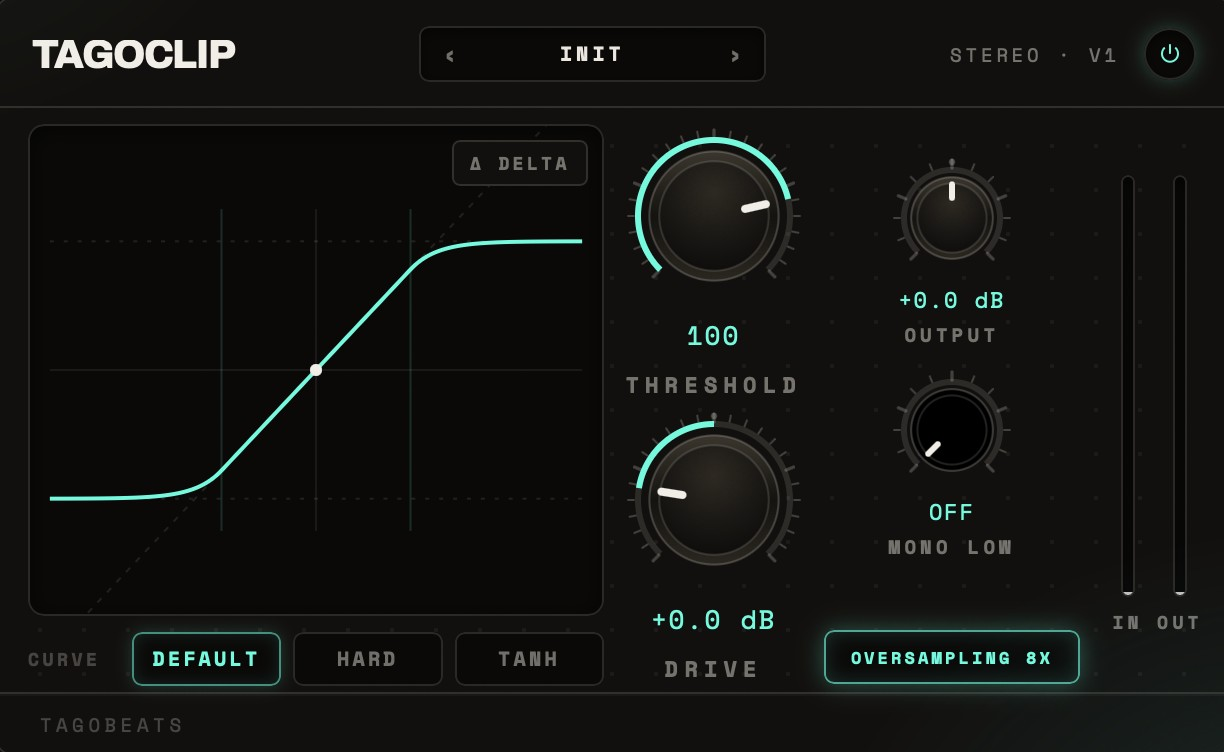
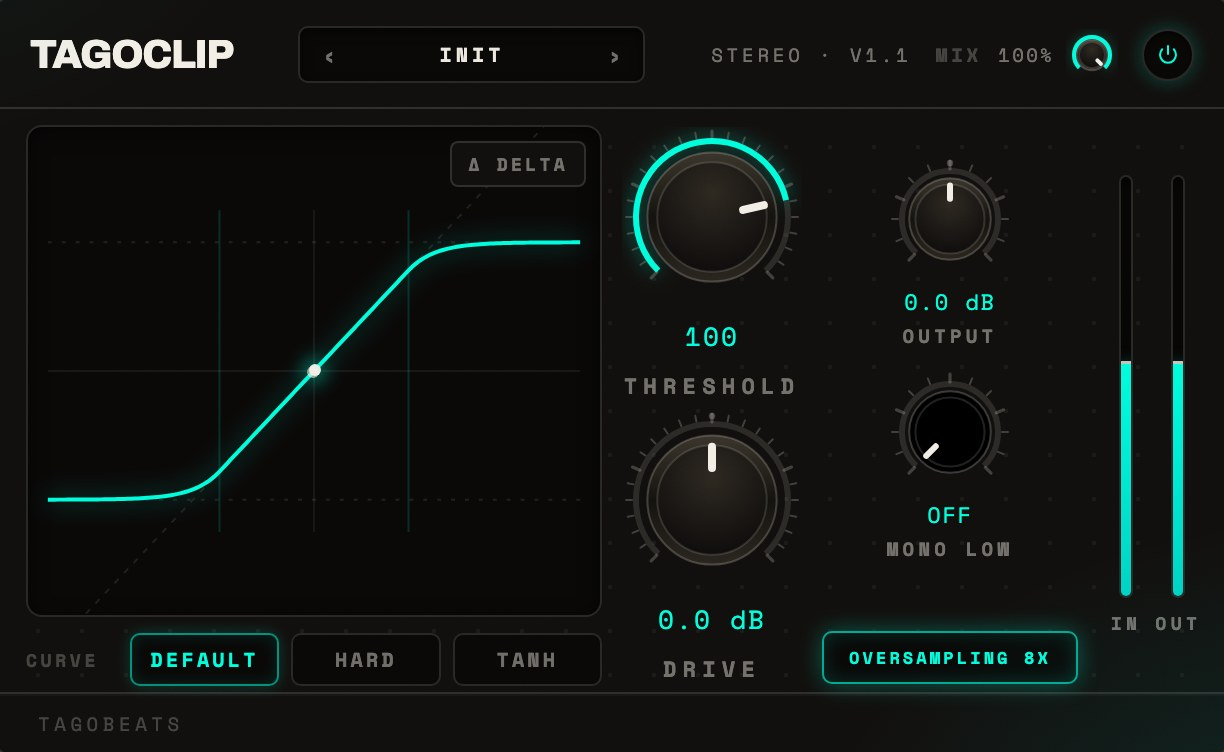
Point TagoClip at v1.1.0
Version strings, download links and the JSON-LD softwareVersion move to
1.1.0, the product card gets a fresh screenshot with a cache bust. The
demo page is the display-only twin of the plugin mockup and follows the
same v1.1 UI: mix knob in the header, gain reduction readout in the
scope, unity at 12 o'clock on the drive knob.

TagoPitch is untouched and stays on 1.0.0.

Not for deploy yet: the download links point at release assets that do
not exist until the v1.1.0 release is published, which happens together
with the first list mail.

diff --git a/demos/tagoclip.html b/demos/tagoclip.html
@@ -133,6 +133,30 @@
     color: var(--dim);
     white-space: nowrap;
   }
+  /* Mix lives in the header, between the meta line and the bypass button, and
+     carries its value inline because the header has no room for a stacked label. */
+  .header-mix .knob-unit {
+    flex-direction: row-reverse;
+    align-items: center;
+    gap: 6px;
+  }
+  .header-mix .knob-label {
+    font-size: 9.5px; letter-spacing: 0.2em;
+    color: var(--faint);
+    margin-top: 0;
+  }
+  .header-mix .knob-value {
+    font-size: 9.5px; letter-spacing: 0.12em;
+    /* fixed width so 8 % and 100 % do not shift the bypass button */
+    min-width: 30px; text-align: right;
+    min-height: 0;
+    color: var(--dim);
+  }
+  .header-mix .knob-unit:hover .knob-value { color: var(--accent); }
+  .header-mix .track, .header-mix .fill { stroke-width: 2; }
+  .header-mix .fill { filter: drop-shadow(0 0 3px rgba(0, 253, 220, 0.35)); }
+  .header-mix .pointer { stroke-width: 2; }
+
   #power {
     width: 26px; height: 26px; border-radius: 50%;
     border: 1px solid var(--hairline);
@@ -178,6 +202,22 @@
     overflow: hidden;
   }
   #scope { display: block; width: 100%; height: 100%; }
+  /* Gain reduction, deliberately a side feature: no badge, no glow, invisible
+     until the clipper actually takes something away (Robin, 17.09.2026). */
+  #gr-readout {
+    position: absolute; left: 11px; top: 11px;
+    display: flex; align-items: baseline; gap: 4px;
+    font: 700 8.5px "Space Mono", monospace;
+    letter-spacing: 0.16em;
+    color: var(--dim);
+    opacity: 0;
+    transition: opacity 0.25s;
+    pointer-events: none;
+    z-index: 1;
+  }
+  #gr-readout .gr-value { min-width: 24px; text-align: right; }
+  #gr-readout.on { opacity: 1; }
+
   #delta-btn {
     position: absolute; top: 7px; right: 7px;
     font: 700 9px "Space Mono", monospace;
@@ -358,7 +398,8 @@
       <button id="next" title="Next preset">›</button>
     </div>
     <div class="header-right">
-      <span class="header-meta">Stereo&nbsp;·&nbsp;V1</span>
+      <span class="header-meta">Stereo&nbsp;·&nbsp;V1.1</span>
+      <div class="header-mix"><div class="knob-unit" id="mix"></div></div>
       <button id="power" title="Bypass">
         <svg viewBox="0 0 24 24"><path d="M12 3v8"/><path d="M6.2 6.2a8 8 0 1 0 11.6 0"/></svg>
       </button>
@@ -368,7 +409,10 @@
   <main>
     <div class="scope-unit">
       <div id="scope-wrap">
-        <button id="delta-btn" title="Hear only what gets clipped away">Δ DELTA</button>
+        <div id="gr-readout" title="Peak gain reduction of the clipper">
+        <span class="gr-label">GR</span><span class="gr-value">0.0</span><span class="gr-unit">dB</span>
+      </div>
+      <button id="delta-btn" title="Hear only what gets clipped away">Δ DELTA</button>
         <svg id="scope"></svg>
       </div>
       <div class="chip-rows">
@@ -438,13 +482,16 @@ class Knob {
     Object.assign(this, {
       min: 0, max: 1, def: 0, step: 0,
       bipolar: false, size: 90, unit: "",
+      center: null,     // value that sits at 12 o'clock on an asymmetric range
+      ringInset: 7,     // px between knob edge and value ring
+      ticks: true,
       label: null,
       onchange: null,
       fmt: v => v.toFixed(2) + " " + this.unit,
     }, opts);
     this.el = el;
     this.value = this.def;
-    this.r = this.size / 2 - 7;
+    this.r = this.size / 2 - this.ringInset;
     this.build();
     this.render();
   }
@@ -478,7 +525,7 @@ class Knob {
 
     const small = this.size < 80;
     const nTicks = small ? 12 : 24;
-    for (let i = 0; i <= nTicks; i++) {
+    for (let i = 0; this.ticks && i <= nTicks; i++) {
       const ang = START + (i / nTicks) * SWEEP;
       const major = i % (nTicks / 4) === 0;
       const [tx0, ty0] = polar(c, c, this.r + (major ? 1 : 2), ang);
@@ -528,7 +575,26 @@ class Knob {
     this.el.append(svg, label, name);
   }
 
-  norm() { return (this.value - this.min) / (this.max - this.min); }
+  /* Knob position is normalised 0..1. With a centre the mapping is piecewise so
+     that value lands at 0.5, i.e. straight up, even on an asymmetric range like
+     drive (-6..+24 dB), where 12 o'clock would otherwise sit at +9 dB. */
+  toNorm(v) {
+    const c = this.center;
+    if (c === null) return (v - this.min) / (this.max - this.min);
+    return v <= c
+      ? 0.5 * (v - this.min) / (c - this.min)
+      : 0.5 + 0.5 * (v - c) / (this.max - c);
+  }
+
+  fromNorm(n) {
+    const c = this.center;
+    if (c === null) return this.min + n * (this.max - this.min);
+    return n <= 0.5
+      ? this.min + (n / 0.5) * (c - this.min)
+      : c + ((n - 0.5) / 0.5) * (this.max - c);
+  }
+
+  norm() { return this.toNorm(this.value); }
 
   render() {
     const c = this.size / 2;
@@ -568,6 +634,7 @@ const state = {
   delta: false,
   threshold: 100 / 128,   // linear, like the DSP
   driveDb: 0,
+  mix: 100,               // percent, 100 = fully clipped
 };
 
 /* ---------- Scope: the hero display ---------- */
@@ -671,9 +738,19 @@ const fmtDb = v => (v > 0 ? "+" : v < 0 ? "−" : "") + Math.abs(v).toFixed(1) +
 
 const knobs = {
   drive: new Knob(document.getElementById("drive"), {
-    min: -6, max: 24, def: 0, size: 90, label: "drive", bipolar: true,
+    /* centre: the range is not symmetric, so without it 12 o'clock would sit at
+       +9 dB and the default would point left (Robin, 17.09.2026) */
+    min: -6, max: 24, def: 0, size: 90, label: "drive", bipolar: true, center: 0,
     fmt: fmtDb,
     onchange: v => { state.driveDb = v; },
+  }),
+  /* Parallel clipping (v1.1). Same diameter as the bypass button next to it, so
+     the ring sits tighter than on the big knobs and the tick ring is dropped. */
+  mix: new Knob(document.getElementById("mix"), {
+    min: 0, max: 100, def: 100, size: 26, label: "mix",
+    ringInset: 4, ticks: false,
+    fmt: v => Math.round(v) + "%",
+    onchange: v => { state.mix = v; },
   }),
   /* Fruity scale: integer 0..127, internally t = v/128 like the original */
   threshold: new Knob(document.getElementById("threshold"), {
@@ -721,7 +798,28 @@ function meterTick() {
     const outGain = Math.pow(10, knobs.output.value / 20 * 0.5);
     drawMeter(meterOut, Math.min(1, clipped * outGain));
   }
+  updateGr();
   requestAnimationFrame(meterTick);
+}
+
+/* ---------- Gain reduction readout ----------
+   In the plugin this number comes from the audio thread (peak reduction across
+   the curve). Here it follows the same idle model the meters use, so the mockup
+   shows a plausible value instead of a made up one. Fast attack, slow release. */
+const grRoot = document.getElementById("gr-readout");
+const grValue = grRoot.querySelector(".gr-value");
+let grShown = 0;
+function updateGr() {
+  let target = 0;
+  if (!plugin.classList.contains("bypassed")) {
+    const driven = 0.45 * Math.pow(10, state.driveDb / 20);
+    if (driven > state.threshold)
+      target = -Math.min(24, 20 * Math.log10(driven / state.threshold) * 0.8);
+  }
+  grShown += (target - grShown) * (target < grShown ? 0.6 : 0.06);
+  const active = grShown < -0.05;
+  grValue.textContent = active ? "\u2212" + Math.abs(grShown).toFixed(1) : "0.0";
+  grRoot.classList.toggle("on", active);
 }
 
 /* ---------- Fit the fixed 620x380 window into whatever iframe hosts it ---------- */

diff --git a/api/lead.js b/api/lead.js
@@ -13,10 +13,10 @@ const PRODUCTS = {
   },
   tagoclip: {
     name: 'TagoClip',
-    metaLine: 'V1.0.0 &middot; MACOS AU/VST3 &middot; WINDOWS VST3 &middot; FREE',
-    image: 'https://tagobeats.com/uploads_opt/TagoClip_800.jpg?v=4',
-    mac: 'https://github.com/TagoBeats/TagoClip/releases/download/v1.0.0/TagoClip-1.0.0.dmg',
-    win: 'https://github.com/TagoBeats/TagoClip/releases/download/v1.0.0/TagoClip-v1.0.0-Windows-VST3.zip',
+    metaLine: 'V1.1.0 &middot; MACOS AU/VST3 &middot; WINDOWS VST3 &middot; FREE',
+    image: 'https://tagobeats.com/uploads_opt/TagoClip_800.jpg?v=5',
+    mac: 'https://github.com/TagoBeats/TagoClip/releases/download/v1.1.0/TagoClip-1.1.0.dmg',
+    win: 'https://github.com/TagoBeats/TagoClip/releases/download/v1.1.0/TagoClip-v1.1.0-Windows-VST3.zip',
     macInstallText: 'open the .dmg, then run the .pkg inside and pick the formats you want',
     macInstallHtml: 'open the .dmg, then run the .pkg inside and pick the formats you want (AU + VST3, notarized).',
   },
@@ -115,6 +115,53 @@ function downloadEmail(product, unsubUrl) {
   return { subject: `Your ${product.name} download`, text, html }
 }
 
+// Own contact store, independent of Resend's Audience.
+//
+// Why: Resend caps Marketing contacts at 1,000 on the free tier and rejects
+// new ones past that, while the transactional send below has no contact cap
+// at all (50,000 mails/mo on the Pro plan). Without this the gate would keep
+// delivering downloads while silently dropping every new address. Keeping our
+// own copy also makes the list portable to any sender later.
+//
+// Layout (Upstash Redis, REST API, one pipelined round trip):
+//   tago:contacts            SET   every address that ever passed the gate
+//   tago:contacts:<product>  SET   per-product segment, drives targeted sends
+//   tago:first_seen          HASH  email -> ISO timestamp of first download
+//   tago:last_seen           HASH  email -> ISO timestamp of latest download
+//   tago:unsub               SET   opt-outs, written by api/unsubscribe.js
+async function storeContact(email, productKey) {
+  const url = process.env.UPSTASH_REDIS_REST_URL
+  const token = process.env.UPSTASH_REDIS_REST_TOKEN
+  if (!url || !token) {
+    console.log(`[lead] (no Upstash creds) ${email} · ${productKey}`)
+    return
+  }
+
+  const now = new Date().toISOString()
+  try {
+    const store = await fetch(`${url}/pipeline`, {
+      method: 'POST',
+      headers: {
+        Authorization: `Bearer ${token}`,
+        'Content-Type': 'application/json',
+      },
+      body: JSON.stringify([
+        ['SADD', 'tago:contacts', email],
+        ['SADD', `tago:contacts:${productKey}`, email],
+        ['HSETNX', 'tago:first_seen', email, now],
+        ['HSET', 'tago:last_seen', email, now],
+      ]),
+    })
+    if (!store.ok) {
+      console.error('[lead] Upstash store error', store.status, await store.text().catch(() => ''))
+    }
+  } catch (err) {
+    // Never let the store break the download. A lost address is bad, a lost
+    // customer is worse.
+    console.error('[lead] Upstash request failed', err)
+  }
+}
+
 module.exports = async function handler(req, res) {
   if (req.method !== 'POST') {
     return res.status(405).json({ error: 'Method not allowed' })
@@ -122,7 +169,10 @@ module.exports = async function handler(req, res) {
 
   const email = String((req.body && req.body.email) || '').trim().toLowerCase()
   const source = String((req.body && req.body.source) || 'tagopitch')
-  const product = PRODUCTS[source] || PRODUCTS.tagopitch
+  // Fall back to a known key rather than trusting the client string: it ends up
+  // in a Redis key name below, so an unknown value must never reach the store.
+  const productKey = Object.prototype.hasOwnProperty.call(PRODUCTS, source) ? source : 'tagopitch'
+  const product = PRODUCTS[productKey]
 
   if (!/^[^\s@]+@[^\s@]+\.[^\s@]+$/.test(email)) {
     return res.status(400).json({ error: 'Invalid email address' })

diff --git a/index.html b/index.html
@@ -782,10 +782,10 @@ body { margin: 0; }
     <div style="flex:1; min-height:0; display:flex; align-items:center; border-top:1px solid rgba(236,231,222,0.12); padding-top:clamp(18px,2.76vh,32px);">
       <div class="tb-proj-card tb-plugin-hero" style="background:#1A1815; border-radius:10px; overflow:hidden; border:1px solid rgba(236,231,222,0.08); display:flex; align-items:stretch; width:100%; max-width:1357px; margin:0 auto;">
         <div style="position:relative; flex:0 0 56%; aspect-ratio:1224/752; min-height:clamp(200px,36vh,380px); overflow:hidden; background:#181917;">
-          <div style="position:absolute; inset:0; background:url('uploads_opt/TagoClip_800.jpg?v=4') center/cover no-repeat;"></div>
+          <div style="position:absolute; inset:0; background:url('uploads_opt/TagoClip_800.jpg?v=5') center/cover no-repeat;"></div>
         </div>
         <div style="flex:1; min-width:0; padding:clamp(20px,3.2vh,38px) clamp(23px,2.76vw,37px); display:flex; flex-direction:column; justify-content:center;">
-          <div style="font-family:'Space Mono',monospace; font-size:11px; letter-spacing:0.18em; color:rgba(236,231,222,0.45); margin-bottom:8px;">V1.0.0 · MACOS AU/VST3 · WINDOWS VST3 · FREE</div>
+          <div style="font-family:'Space Mono',monospace; font-size:11px; letter-spacing:0.18em; color:rgba(236,231,222,0.45); margin-bottom:8px;">V1.1.0 · MACOS AU/VST3 · WINDOWS VST3 · FREE</div>
           <h3 style="margin:0; font-size:clamp(23px,2.53vw,32px); font-weight:800; letter-spacing:-0.02em; color:#F2EEE6;">Soft clipper for 808s and drums</h3>
           <p style="margin:clamp(7px,1.15vh,12px) 0 0; max-width:560px; font-size:clamp(15px,1.27vw,17px); line-height:1.5; color:rgba(236,231,222,0.55);">The FL soft clip sound in every DAW: the exact curve, measured and cloned, plus optional 4x/8x oversampling against its aliasing. Delta listening plays only what gets clipped away, mono low keeps the sub centered. On the left is the real UI.</p>
 
@@ -1580,7 +1580,7 @@ class Component extends DCLogic {
   "name": "TagoClip",
   "operatingSystem": "macOS, Windows",
   "applicationCategory": "MultimediaApplication",
-  "softwareVersion": "1.0.0",
+  "softwareVersion": "1.1.0",
   "offers": { "@type": "Offer", "price": "0", "priceCurrency": "EUR" },
   "description": "Free soft clipper plugin (AU/VST3) for 808s and drums: the FL soft clip curve with optional oversampling against aliasing, delta listening and mono low end, made by TagoBeats (Robin Busse).",
   "url": "https://tagobeats.com/tagoclip",

diff --git a/tagoclip.html b/tagoclip.html
@@ -24,7 +24,7 @@
   "name": "TagoClip",
   "operatingSystem": "macOS, Windows",
   "applicationCategory": "MultimediaApplication",
-  "softwareVersion": "1.0.0",
+  "softwareVersion": "1.1.0",
   "offers": { "@type": "Offer", "price": "0", "priceCurrency": "EUR" },
   "description": "Free soft clipper plugin (AU/VST3) for 808s and drums: the FL soft clip curve with optional oversampling against aliasing, delta listening and mono low end, made by TagoBeats (Robin Busse).",
   "url": "https://tagobeats.com/tagoclip",
@@ -143,7 +143,7 @@ body { margin: 0; background:#12100E; color:#ECE7DE; font-family:'Archivo',sans-
           <div style="flex-basis:100%; font-size:13px; line-height:1.5; color:rgba(236,231,222,0.4);">We mail you the download link, plus a heads-up when the next Tago plugin drops. Nothing else.</div>
         </form>
         <div id="tb-tc-msg" role="status" style="display:none; margin-top:12px; font-family:'Space Mono',monospace; font-size:13px; line-height:1.5;"></div>
-        <div style="margin-top:14px; font-family:'Space Mono',monospace; font-size:11px; letter-spacing:0.18em; color:rgba(236,231,222,0.45);">V1.0.0 · MACOS AU/VST3 (NOTARIZED) · WINDOWS VST3 · FREE</div>
+        <div style="margin-top:14px; font-family:'Space Mono',monospace; font-size:11px; letter-spacing:0.18em; color:rgba(236,231,222,0.45);">V1.1.0 · MACOS AU/VST3 (NOTARIZED) · WINDOWS VST3 · FREE</div>
       </div>
     </section>
 
